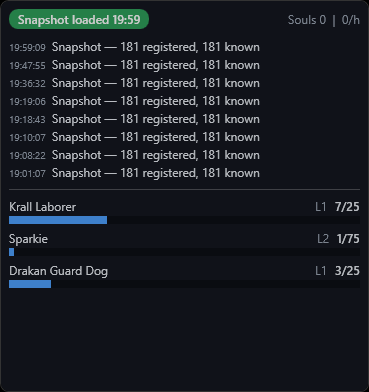
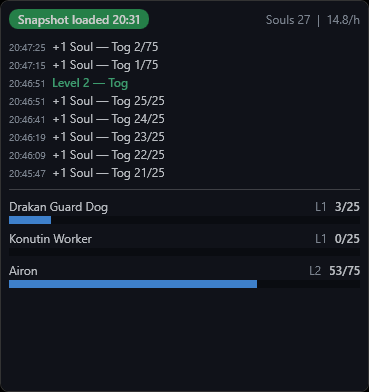
README: refresh overlay screenshot with soul gains and a level-up

diff --git a/README.md b/README.md
@@ -60,9 +60,10 @@ linking to the Npcap download.
 **Collection window.** All your pets with genus, level, souls progress and this session's gains. Filter and sort with
 the buttons at the top. Tick **Pin** to show a pet on the overlay; right-click a pet to rename it or open it on TH.GL.
 
-**Overlay.** Shows your pinned pets and recent events above the game.
+**Overlay.** Shows your pinned pets, recent events such as souls gained and level-ups, and your souls per hour, above
+the game.
 
-<img src="docs/screenshots/app-overlay.png" alt="The overlay with three pinned pets and their souls progress" width="300">
+<img src="docs/screenshots/app-overlay.png" alt="The overlay: recent soul gains and a level-up, souls per hour, and three pinned pets with their souls progress" width="300">
 
 Default hotkeys: **Ctrl+Shift+P** shows or hides the overlay, **Ctrl+Shift+L** turns click-through on and off (so
 your clicks go to the game instead). Opacity, size and hotkeys are in Settings → Overlay.
